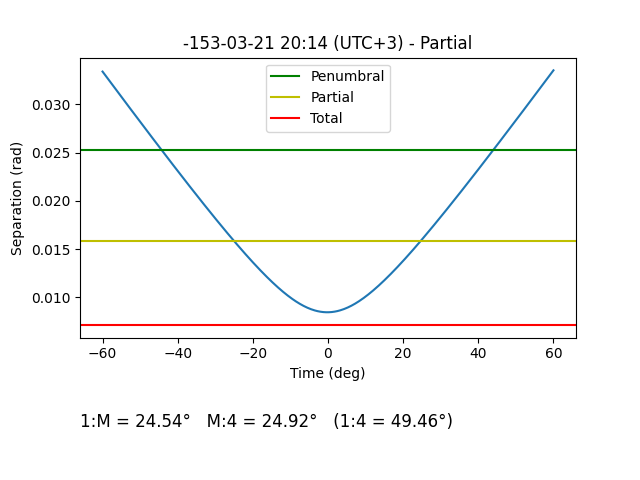
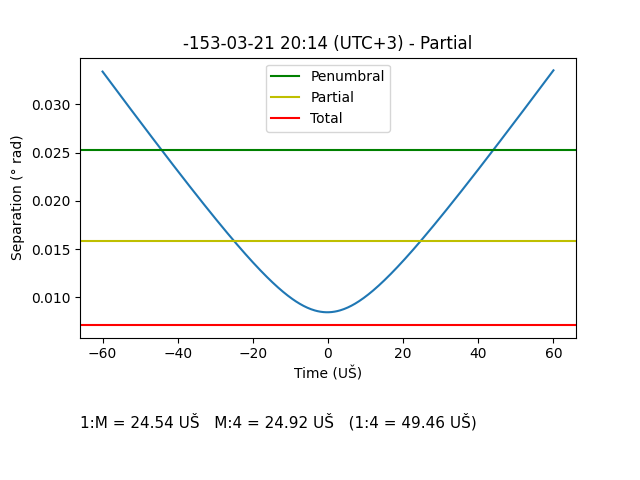
tweak

Changed region(s): [[0.125, 0.8438, 0.75, 0.9062], [0.0, 0.2812, 0.0312, 0.5312], [0.4375, 0.75, 0.5625, 0.8125]]

diff --git a/src/graphics/eclipse_plot.py b/src/graphics/eclipse_plot.py
@@ -26,8 +26,8 @@ def plot_eclipse(data: AstroData, t0: Time, dest: str):
         start_time = data.timescale.tt_jd(start_time.tt + one_min)
 
     f, (ax1, ax2) = plt.subplots(2, 1, gridspec_kw={'height_ratios': [5, 1]})
-    ax1.set_xlabel('Time (deg)')
-    ax1.set_ylabel('Separation (rad)')
+    ax1.set_xlabel('Time (UŠ)')
+    ax1.set_ylabel('Separation (° rad)')
     ax1.set_title(
         "{} (UTC+3) - {}".format(TimeValue(times[0].tt).string(data.timescale), eclipselib.LUNAR_ECLIPSES[types[0]]))
 
@@ -42,12 +42,12 @@ def plot_eclipse(data: AstroData, t0: Time, dest: str):
     phases = again.phases(TimeUnit.DEGREE)
 
     if again.type == "Total":
-        t = "1:2 = {:.2f}°   2:3 = {:.2f}°   3:4 = {:.2f}°   (1:4 = {:.2f}°)" \
+        t = "1:2 = {:.2f} UŠ   2:3 = {:.2f} UŠ   3:4 = {:.2f} UŠ   (1:4 = {:.2f} UŠ)" \
             .format(phases.onset, phases.maximal, phases.clearing, phases.sum)
-        ax2.text(0, 0, t, fontsize=12)
+        ax2.text(0, 0, t, fontsize=11)
     elif again.type == "Partial":
-        t = "1:M = {:.2f}°   M:4 = {:.2f}°   (1:4 = {:.2f}°)" \
+        t = "1:M = {:.2f} UŠ   M:4 = {:.2f} UŠ   (1:4 = {:.2f} UŠ)" \
             .format(phases.onset, phases.clearing, phases.sum)
-        ax2.text(0, 0, t, fontsize=12)
+        ax2.text(0, 0, t, fontsize=11)
 
     plt.savefig(dest)

diff --git a/documents/texts.md b/documents/texts.md
@@ -137,8 +137,10 @@ measure the time from the start of the partial eclipse until it becomes
 maximal (i.e. nearest separation of the moon and the shadow) (1:M), and
 the time from then to the end of the eclipse (M:4). But because there is
 a continuous curve, it is difficult to define a maximal phase
-“duration”: ![](graphics/partial_eclipse.png) Therefore in the case of
-partial eclipses I am only considering the total eclipse duration.
+“duration”: ![](graphics/partial_eclipse.png)
+
+Therefore in the case of partial eclipses I am only considering the
+total eclipse duration.
 
 References
 ----------

diff --git a/documents/src/texts.md b/documents/src/texts.md
@@ -114,6 +114,7 @@ the start of the partial eclipse until it becomes maximal (i.e. nearest separati
 the moon and the shadow) (1:M), and the time from then to the end of the eclipse (M:4). But because
 there is a continuous curve, it is difficult to define a maximal phase "duration":
 ![](graphics/partial_eclipse.png)
+
 Therefore in the case of partial eclipses I am only considering the total eclipse duration.
 
 ## References
